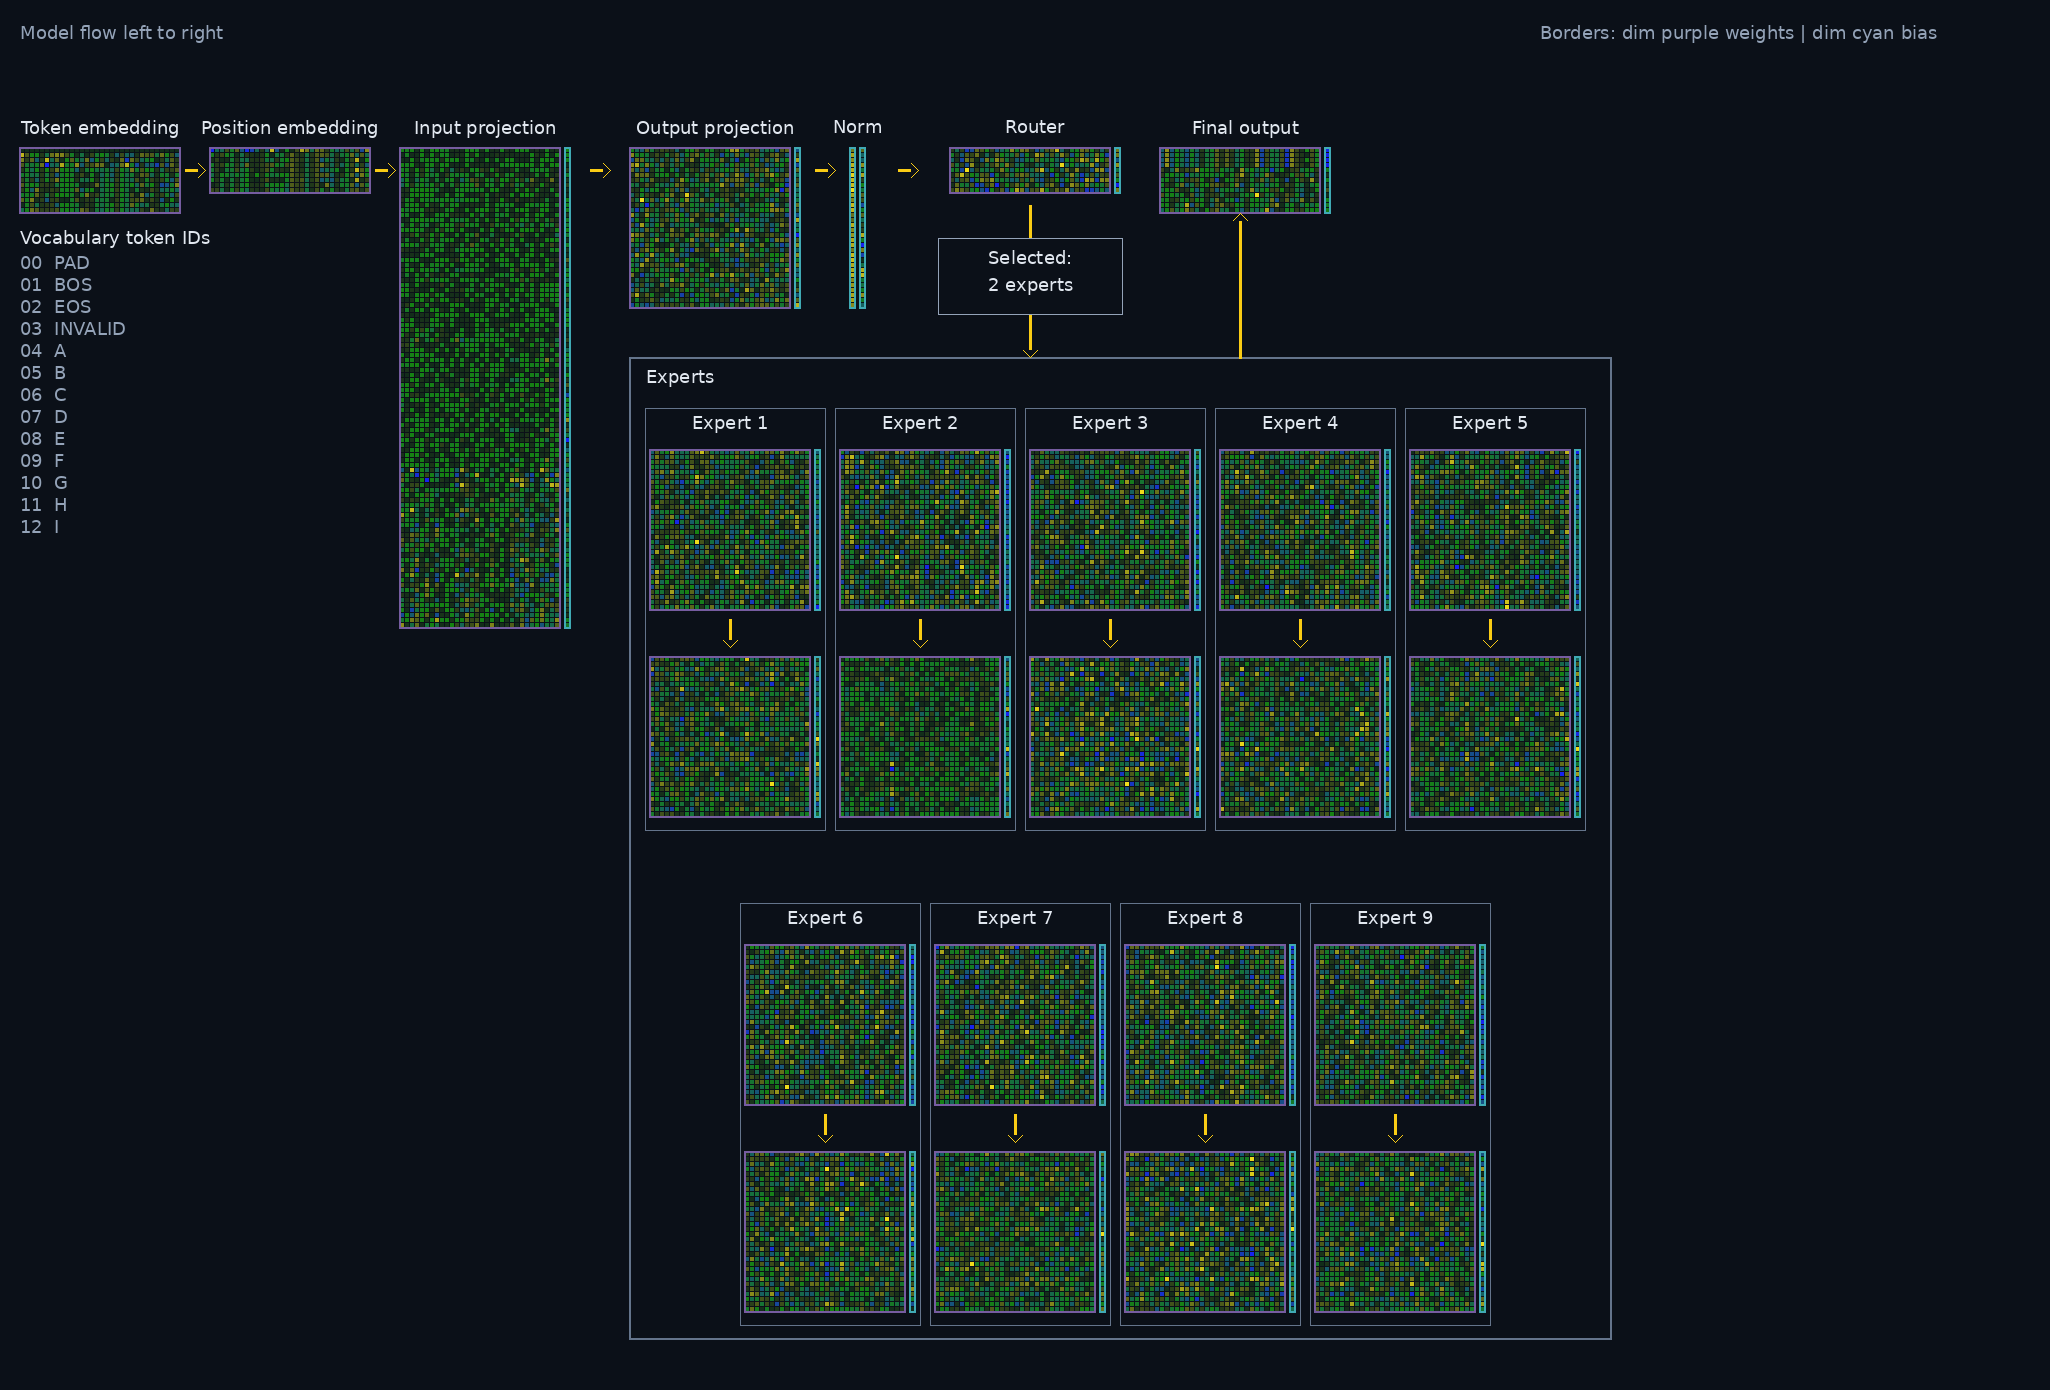
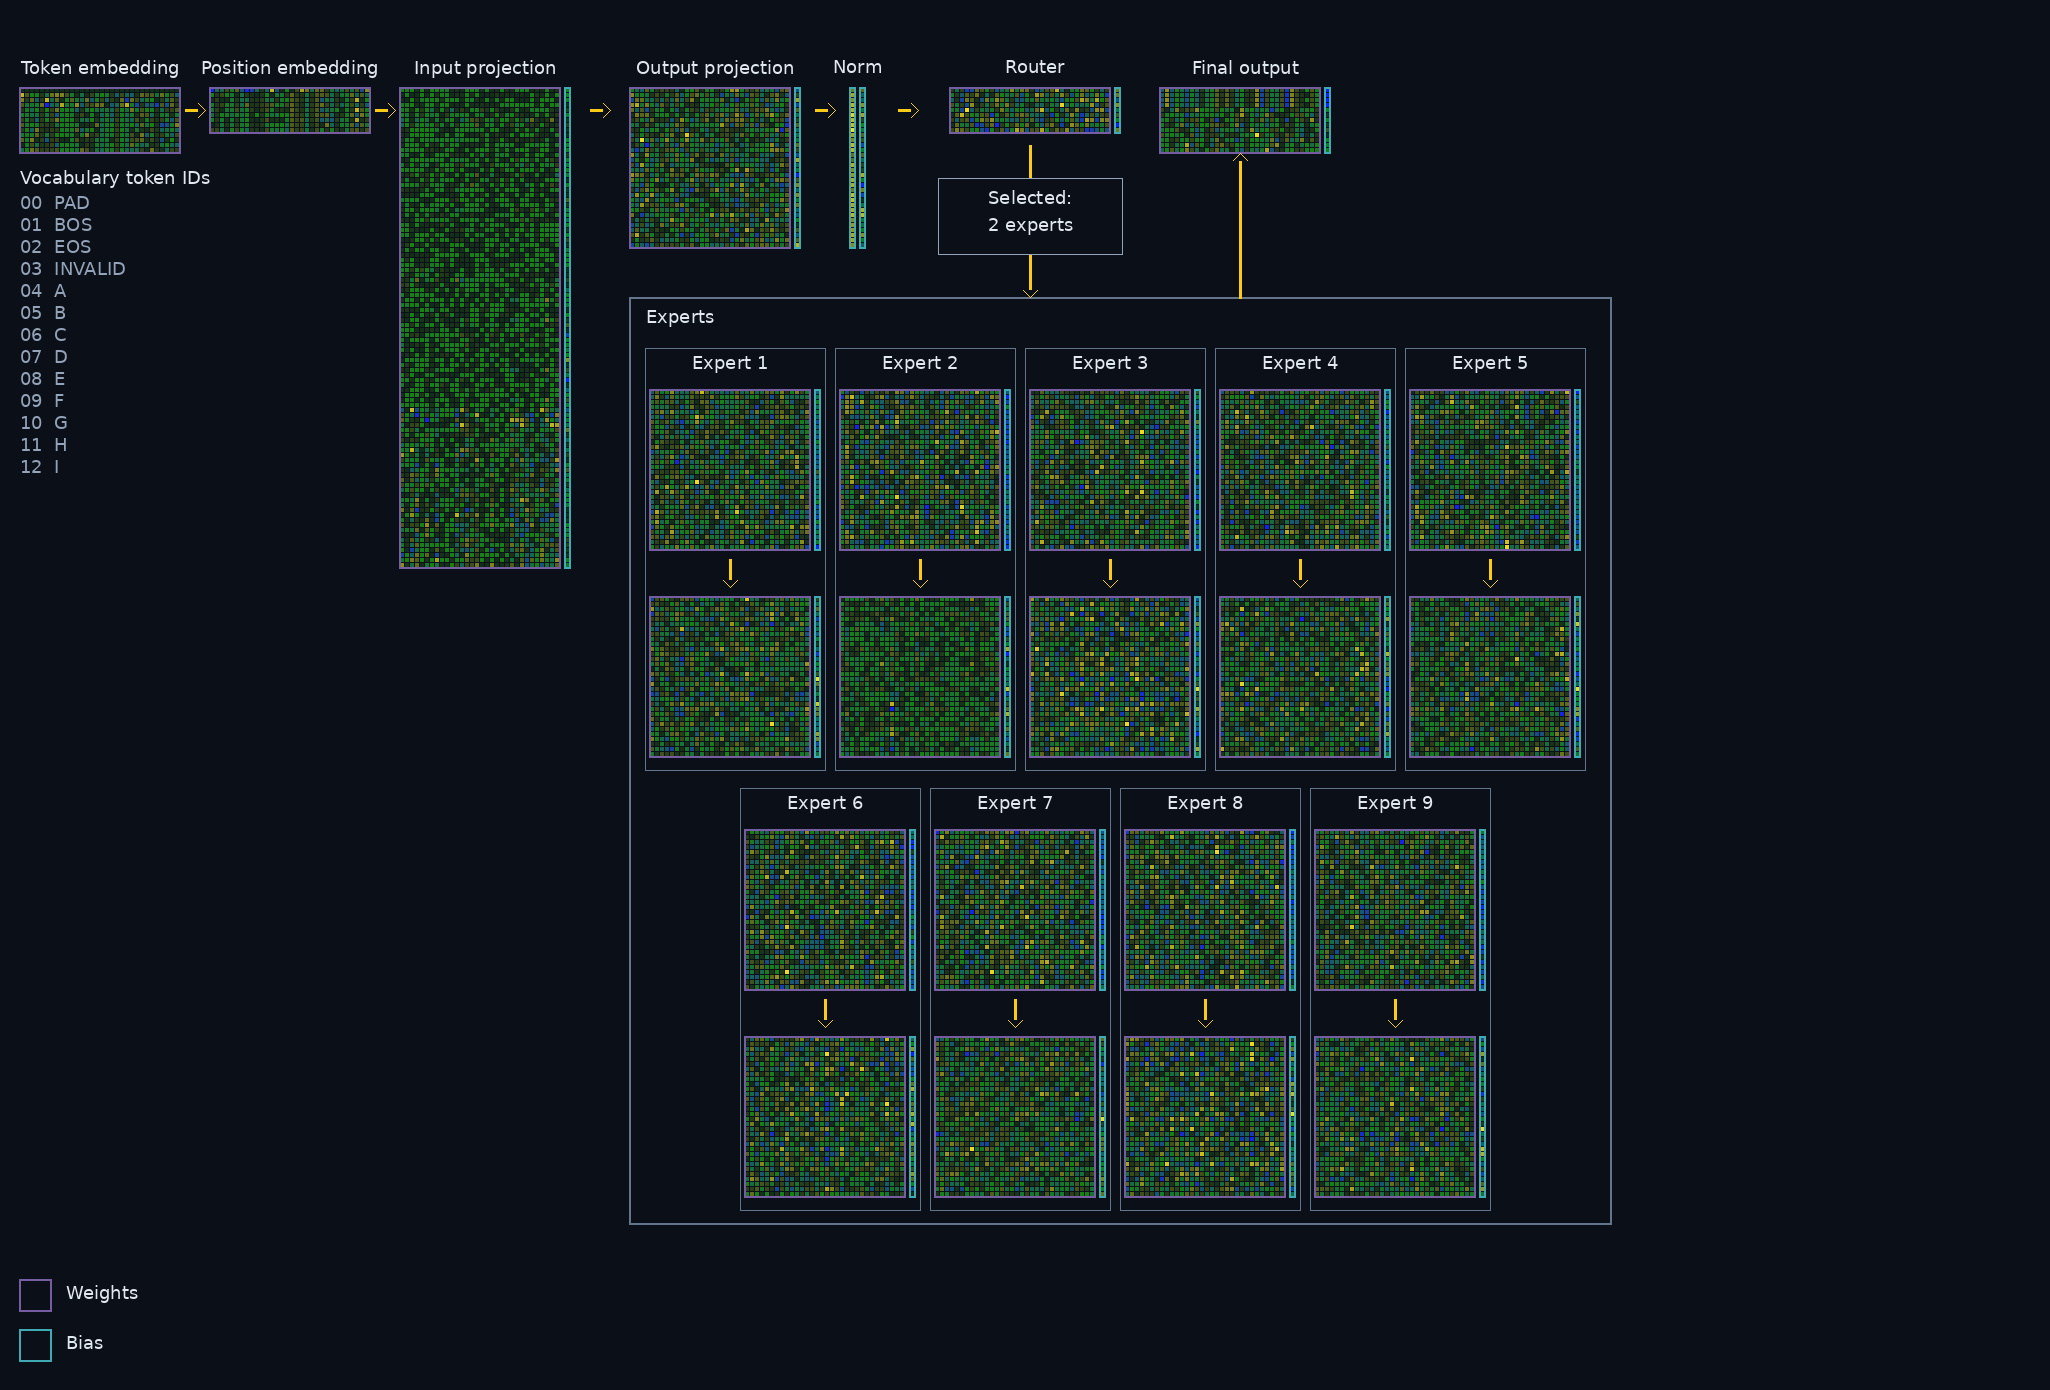
Compact tensor inspector legend and rows

diff --git a/tools/tensor_inspector.py b/tools/tensor_inspector.py
@@ -184,9 +184,7 @@ def render_checkpoint_inspector(source: Path) -> tuple[bytes, dict[str, object]]
         for name, tensor in state.items()
     }
 
-    top_y, flow_y = 100, 170
-    _text(rgb, width, _MARGIN, 25, "Model flow left to right", _MUTED)
-    _text(rgb, width, 1540, 25, "Borders: dim purple weights | dim cyan bias", _MUTED)
+    top_y, flow_y = 40, 110
     _render_single(rgb, width, state, "embedding.weight", "Token embedding", 20, top_y)
     _render_single(rgb, width, state, "position.weight", "Position embedding", 210, top_y)
     _render_pair(rgb, width, state, "attention.in_proj_weight", "attention.in_proj_bias", "Input projection", 400, top_y)
@@ -194,7 +192,7 @@ def render_checkpoint_inspector(source: Path) -> tuple[bytes, dict[str, object]]
     _render_pair(rgb, width, state, "norm.weight", "norm.bias", "Norm", 850, top_y)
     _render_pair(rgb, width, state, "router.weight", "router.bias", "Router", 950, top_y)
     _render_pair(rgb, width, state, "output.weight", "output.bias", "Final output", 1160, top_y)
-    _render_vocabulary(rgb, width, 20, 230)
+    _render_vocabulary(rgb, width, 20, 170)
 
     # The position table is an explicit branch: small flow arrows enter and leave its matrix at the shared tensor centerline.
     _arrow(rgb, width, 185, flow_y, 205, flow_y)
@@ -204,21 +202,21 @@ def render_checkpoint_inspector(source: Path) -> tuple[bytes, dict[str, object]]
     _arrow(rgb, width, 898, flow_y, 918, flow_y)
 
     # Begin below Output projection, then use a 5+4 grid so every expert can contain its full weight+bias pair.
-    expert_y, expert_gap, expert_width = 400, 10, 180
+    expert_y, expert_gap, expert_width = 340, 10, 180
     router_center = 1030
     expert_left, expert_right = 630, 1610
-    expert_top, expert_bottom = 358, 1338
+    expert_top, expert_bottom = 298, 1223
     _rectangle(rgb, width, expert_left, expert_top, expert_right - expert_left, expert_bottom - expert_top, _EXPERT_BORDER)
     _text(rgb, width, expert_left + 16, expert_top + 12, "Experts", _LABEL)
-    _arrow(rgb, width, router_center, 205, router_center, expert_top - 1)
-    selection_x, selection_y, selection_width, selection_height = router_center - 92, 238, 184, 76
+    _arrow(rgb, width, router_center, 145, router_center, expert_top - 1)
+    selection_x, selection_y, selection_width, selection_height = router_center - 92, 178, 184, 76
     _fill_rectangle(rgb, width, selection_x, selection_y, selection_width, selection_height, (11, 16, 24))
     _rectangle(rgb, width, selection_x, selection_y, selection_width, selection_height, _MUTED, 1)
-    _centered_text(rgb, width, router_center, 250, "Selected:", _LABEL)
-    _centered_text(rgb, width, router_center, 278, "2 experts", _LABEL)
+    _centered_text(rgb, width, router_center, 190, "Selected:", _LABEL)
+    _centered_text(rgb, width, router_center, 218, "2 experts", _LABEL)
     for expert in range(9):
         row, column = divmod(expert, 5)
-        row_y = expert_y + row * 495
+        row_y = expert_y + row * 440
         x = (650 if row == 0 else 745) + column * (expert_width + expert_gap)
         box_top, box_bottom = row_y + 8, row_y + 430
         _rectangle(rgb, width, x - 5, box_top, 180, box_bottom - box_top, _EXPERT_BORDER, 1)
@@ -227,13 +225,20 @@ def render_checkpoint_inspector(source: Path) -> tuple[bytes, dict[str, object]]
         _render_pair(rgb, width, state, f"experts.{expert}.2.weight", f"experts.{expert}.2.bias", "", x, row_y + 209)
         _arrow(rgb, width, x + 80, row_y + 219, x + 80, row_y + 247)
     # The return uses a straight reserved lane and terminates immediately below the Final output weight matrix.
-    output_return_x, output_matrix_bottom = 1240, 213
+    output_return_x, output_matrix_bottom = 1240, 153
     _arrow(rgb, width, output_return_x, expert_top, output_return_x, output_matrix_bottom)
 
+    # Lower-left legend keeps the border semantics visible without competing with the column headers.
+    legend_x, weights_y, bias_y = 20, 1280, 1330
+    _rectangle(rgb, width, legend_x, weights_y, 30, 30, _WEIGHT_BORDER, 2)
+    _text(rgb, width, legend_x + 46, weights_y + 5, "Weights", _LABEL)
+    _rectangle(rgb, width, legend_x, bias_y, 30, 30, _BIAS_BORDER, 2)
+    _text(rgb, width, legend_x + 46, bias_y + 5, "Bias", _LABEL)
+
     metadata = {
-        "format": "crystal-9-tensor-inspector-v14", "source": source.name,
+        "format": "crystal-9-tensor-inspector-v15", "source": source.name,
         "source_sha256": hashlib.sha256(source.read_bytes()).hexdigest(), "tensor_count": len(state),
-        "normalization": "per-tensor symmetric max-absolute", "layout": "architecture-flow-v14",
+        "normalization": "per-tensor symmetric max-absolute", "layout": "architecture-flow-v15",
         "bias_alignment": "vertical output-row axis", "sections": ["inputs", "attention", "norm_router", "experts", "output"],
         "legend": {"WEIGHTS": "matrix; rows are output features", "BIAS": "bias column; one value per output row", "B": "bias column; one value per output row"},
         "expert_layout": "five Expert boxes over four Expert boxes; each contains its first and second layer",

diff --git a/tests/test_tensor_inspector.py b/tests/test_tensor_inspector.py
@@ -15,7 +15,7 @@ def test_checkpoint_inspector_renders_actual_tensor_inventory_as_png():
     assert metadata["tensors"]["attention.in_proj_weight"]["shape"] == [96, 32]
     assert metadata["tensors"]["experts.0.0.weight"]["shape"] == [32, 32]
     assert metadata["normalization"] == "per-tensor symmetric max-absolute"
-    assert metadata["layout"] == "architecture-flow-v14"
+    assert metadata["layout"] == "architecture-flow-v15"
     assert metadata["bias_alignment"] == "vertical output-row axis"
     assert metadata["sections"][-2:] == ["experts", "output"]
     assert metadata["legend"]["B"] == "bias column; one value per output row"

diff --git a/tools/export_tensor_inspectors.py b/tools/export_tensor_inspectors.py
@@ -31,7 +31,7 @@ def main() -> None:
             "tensor_count": metadata["tensor_count"], "width": metadata["width"], "height": metadata["height"],
             "normalization": metadata["normalization"], "derived": True,
         })
-    (OUTPUT.parent / "inspectors.json").write_text(json.dumps({"format": "crystal-9-tensor-inspector-v14", "inspectors": inspectors}, indent=2) + "\n")
+    (OUTPUT.parent / "inspectors.json").write_text(json.dumps({"format": "crystal-9-tensor-inspector-v15", "inspectors": inspectors}, indent=2) + "\n")
 
 
 if __name__ == "__main__":
